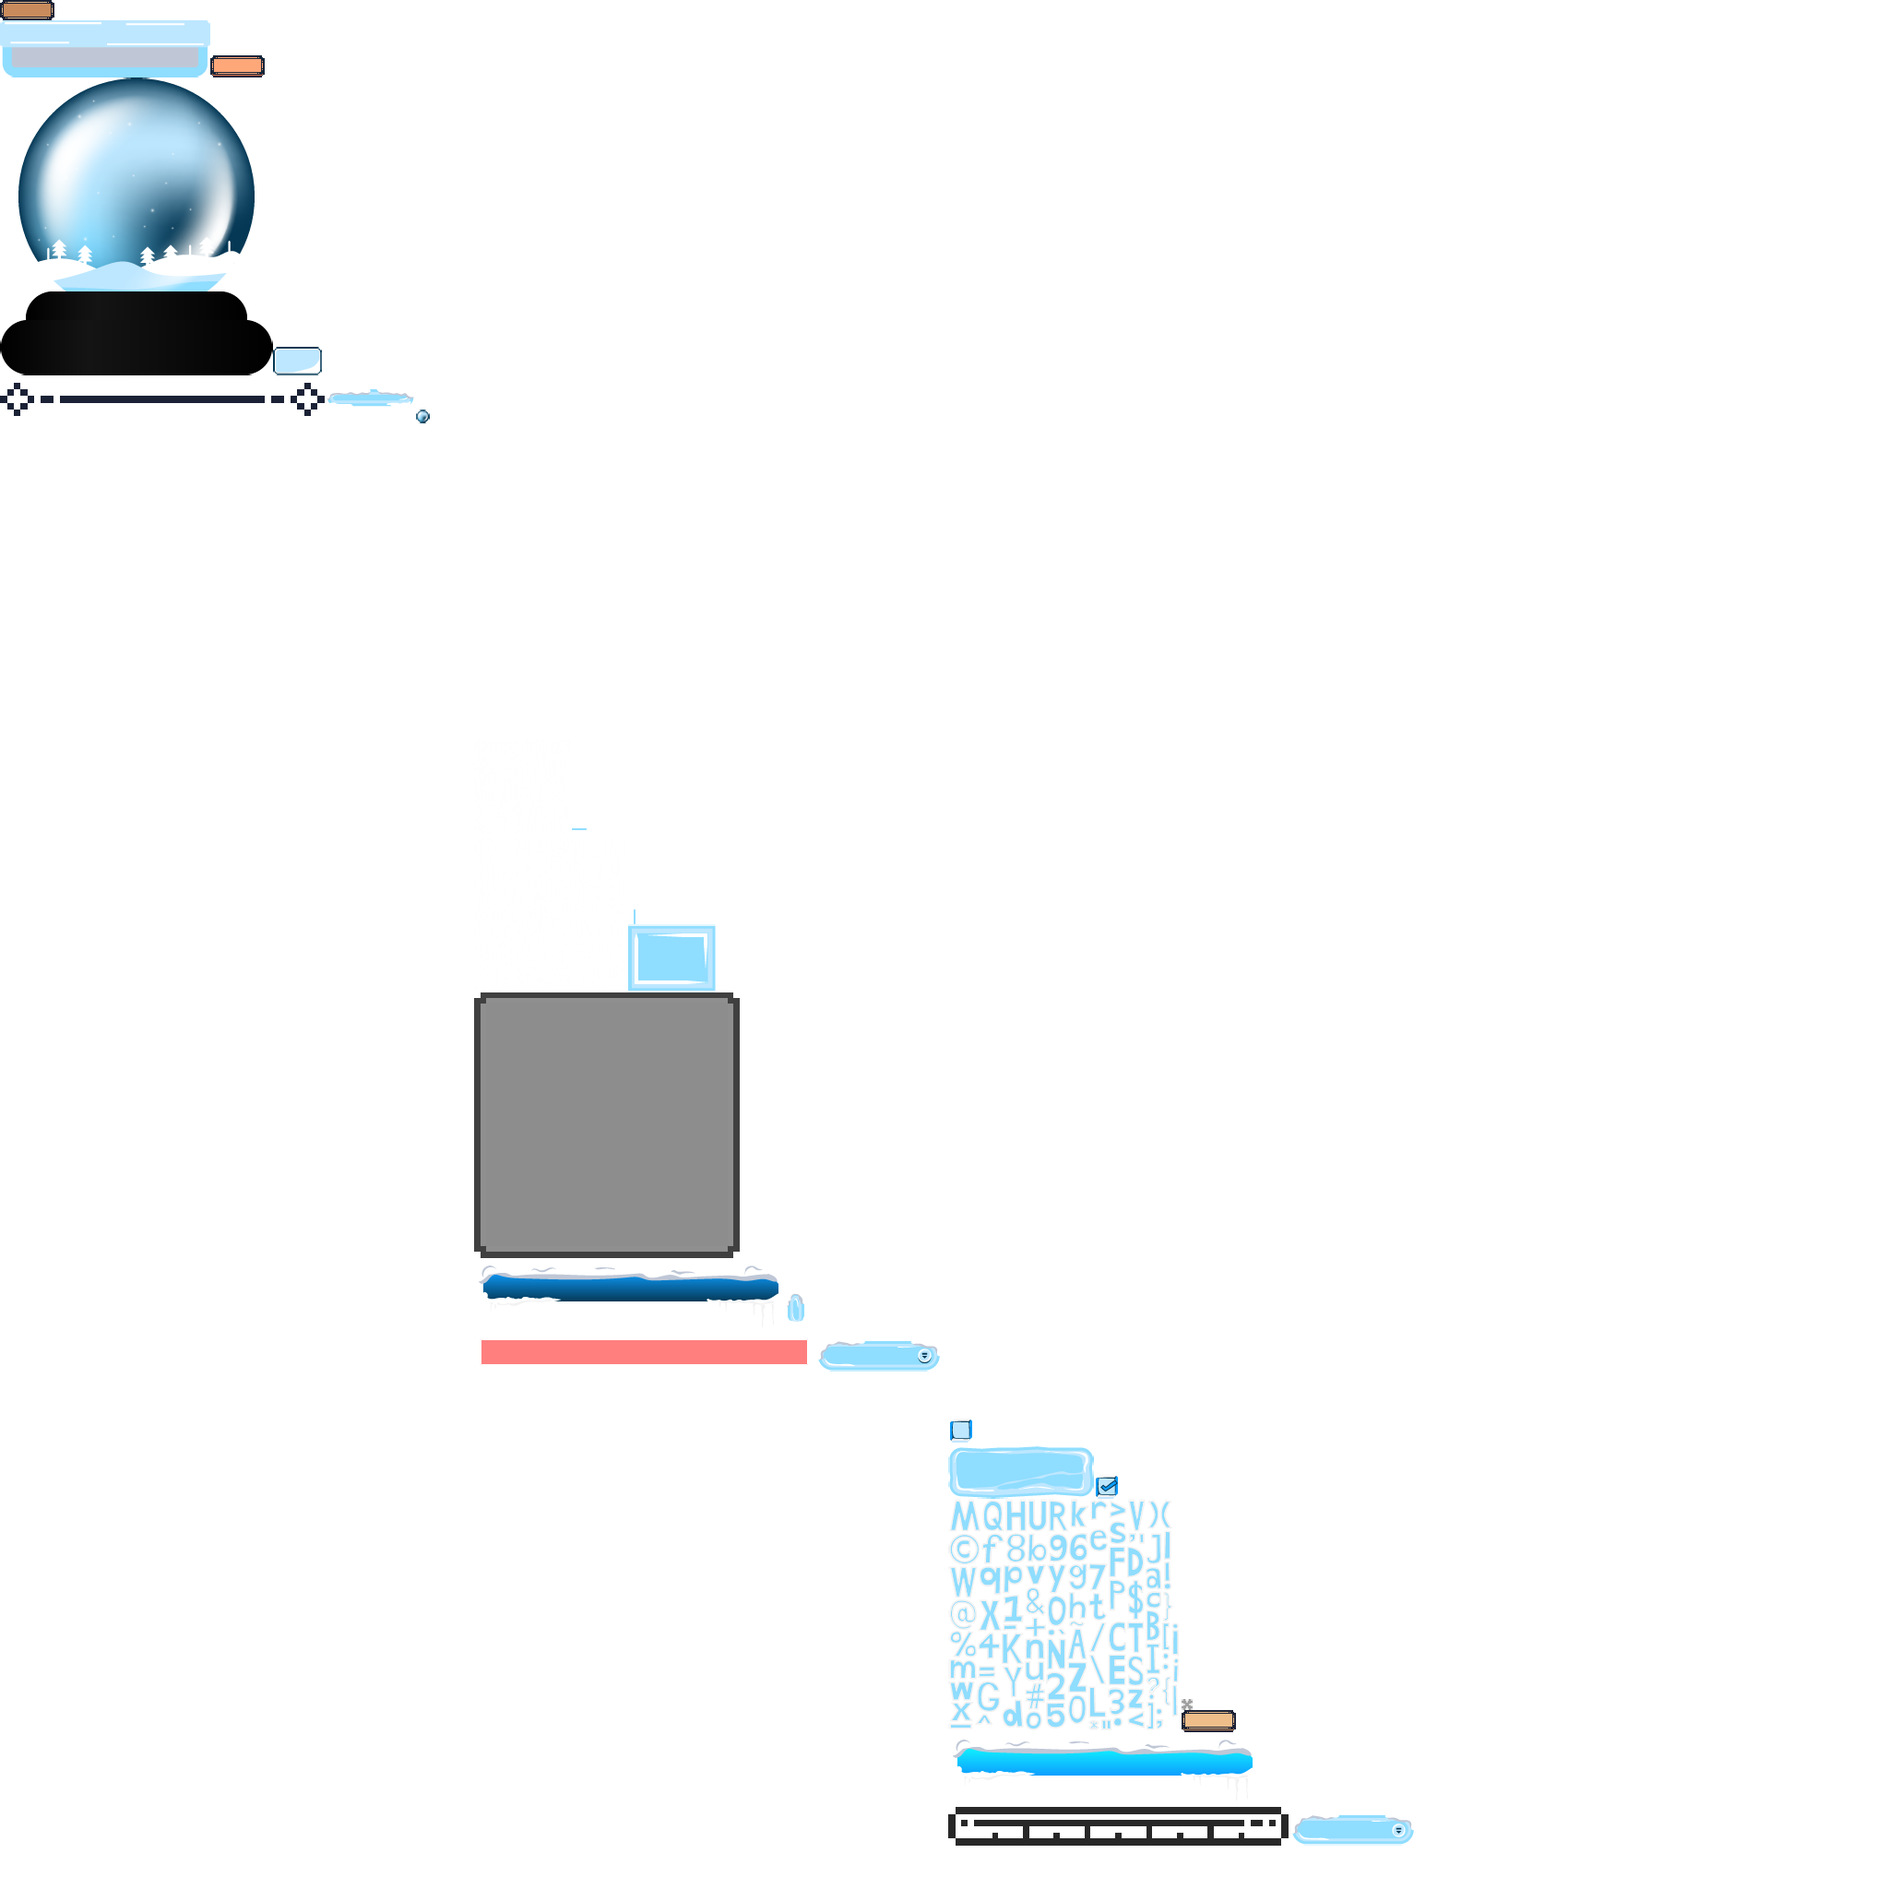
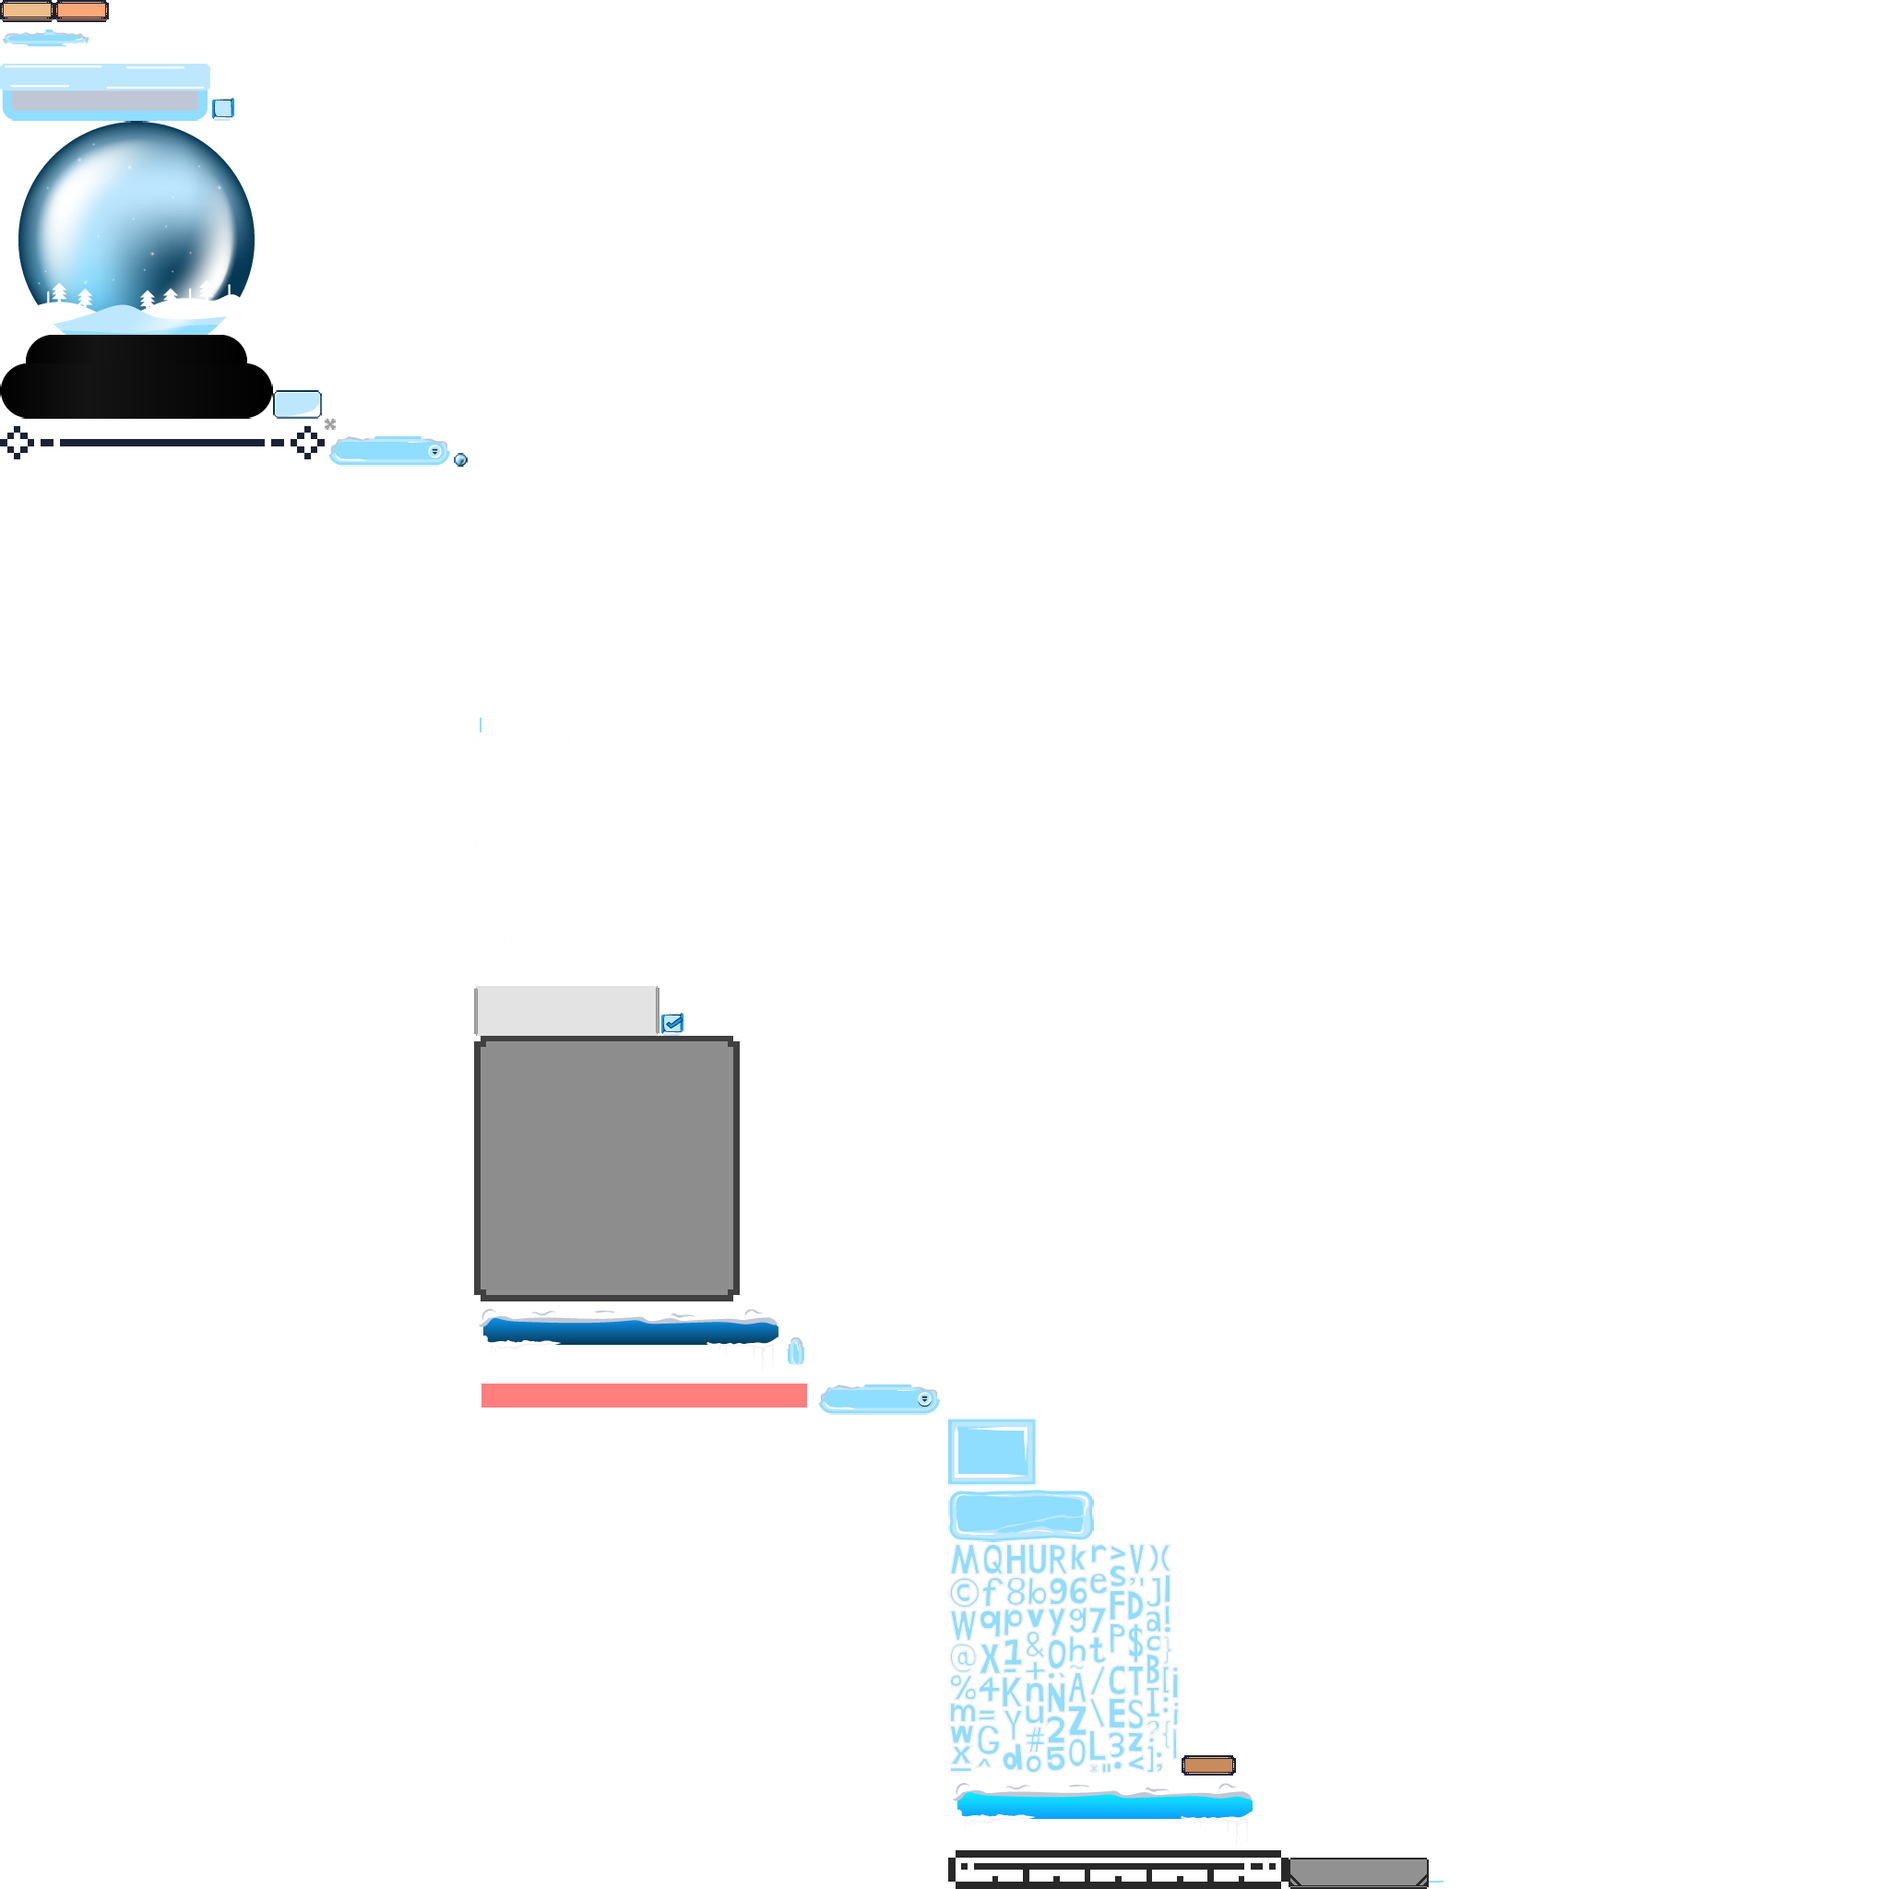
feat: finished the development of the character-creation menu

diff --git a/core/src/main/java/com/banew/containers/menu/character/creation/ConfirmationTable.java b/core/src/main/java/com/banew/containers/menu/character/creation/ConfirmationTable.java
@@ -1,22 +1,78 @@
 package com.banew.containers.menu.character.creation;
 
-import com.badlogic.gdx.scenes.scene2d.ui.Table;
-import com.badlogic.gdx.scenes.scene2d.ui.TextButton;
+import com.badlogic.gdx.graphics.Color;
+import com.badlogic.gdx.scenes.scene2d.Actor;
+import com.badlogic.gdx.scenes.scene2d.InputEvent;
+import com.badlogic.gdx.scenes.scene2d.InputListener;
+import com.badlogic.gdx.scenes.scene2d.ui.*;
+import com.badlogic.gdx.scenes.scene2d.utils.ChangeListener;
 import com.badlogic.gdx.scenes.scene2d.utils.TextureRegionDrawable;
 import com.banew.containers.GlobalGameContext;
+import com.banew.containers.game.GameContainer;
 import com.banew.containers.menu.AbstractTogglingTable;
 import com.banew.containers.menu.MenuContainer;
 
 public class ConfirmationTable extends AbstractTogglingTable {
     private final TextButton nextButton;
+    private final NewCharacterProperties properties;
 
     public ConfirmationTable(GlobalGameContext context, MenuContainer menuContainer) {
         super(context, menuContainer);
 
+        properties = menuContainer.getNewCharacterProperties();
+
         setBackground(
             new TextureRegionDrawable(context.getTextureAtlas().findRegion("gui/create_character_back"))
         );
-        center();
+        top();
+
+        Label topLabel = new Label("Створення персонажа: підтвердження", context.getMainSkin());
+        context.getDynamicLabelsContainer().put(topLabel, .4f);
+        add(topLabel).padBottom(Value.percentHeight(.1f, this));
+        row();
+
+        Table innerTable = new Table();
+        innerTable.setBackground(new TextureRegionDrawable(
+            context.getTextureAtlas().findRegion("gui/confirmation_back")
+        ));
+        innerTable.pad(Value.percentWidth(.05f, this));
+        add(innerTable);
+
+        Label nameLabel = new Label("Введіть внутрішньоігрове ім'я персонажа:", context.getMainSkin());
+        context.getDynamicLabelsContainer().put(nameLabel, .4f);
+        innerTable.add(nameLabel).top().right();
+
+        TextField textField = new TextField("ім'я", context.getMainSkin());
+        innerTable.add(textField)
+            .pad(Value.percentHeight(.01f, this))
+            .width(Value.percentWidth(.2f, this));
+        innerTable.row();
+        textField.addListener(new ChangeListener() {
+            @Override
+            public void changed(ChangeEvent event, Actor actor) {
+                properties.setName(textField.getText());
+                check();
+            }
+        });
+
+        Label bioLabel = new Label("Введіть внутрішньоігрову біографію персонажа:", context.getMainSkin());
+        context.getDynamicLabelsContainer().put(bioLabel, .4f);
+        innerTable.add(bioLabel).top().right()
+            .padTop(Value.percentHeight(.01f, this));;
+
+        TextArea bioField = new TextArea("біо", context.getMainSkin());
+        innerTable.add(bioField)
+            .size(
+                Value.percentWidth(.2f, this),
+                Value.percentWidth(.1f, this)
+            ).pad(Value.percentHeight(.01f, this));
+        bioField.addListener(new ChangeListener() {
+            @Override
+            public void changed(ChangeEvent event, Actor actor) {
+                properties.setBio(bioField.getText());
+                check();
+            }
+        });
 
         row();
         Table buttonsWrap = new Table();
@@ -24,13 +80,16 @@ public class ConfirmationTable extends AbstractTogglingTable {
             toggleOff(menuContainer.viewport());
             menuContainer.toggleSkills();
         });
-        nextButton = addButton(buttonsWrap, .15f, .075f, .4f, "Перейти далі", context, () -> {
-//            toggleOff(menuContainer.viewport());
-//            menuContainer.toggleConfirmation();
+        nextButton = addButton(buttonsWrap, .15f, .075f, .4f, "Почати гру!", context, () -> {
+            context.setContainer(new GameContainer(context, properties));
         }).getActor();
         nextButton.setVisible(false);
         add(buttonsWrap);
     }
 
-
+    private void check() {
+        if (properties.getName().length() >= 5 && properties.getBio().length() >= 10) {
+            nextButton.setVisible(true);
+        }
+    }
 }

diff --git a/core/src/main/java/com/banew/other/enums/Race.java b/core/src/main/java/com/banew/other/enums/Race.java
@@ -11,16 +11,16 @@ import java.util.Map;
 
 @Getter
 public enum Race implements SetupEnum {
-    ZAPADENEC("Западенець"),
-    VOLYNYAKA("Волиняка"),
-    POROHOBOT("Порохобот"),
-    JEW("Жид"),
-    KAVUN("Кавун"),
-    OFFICE_MAN("Робітник офісу"),
-    NIGER("Негр"),
-    LEFT_BANK_VILLAGER("Представник лівого берега Києва"),
-    COAL_MINER("Шахтар Доннбасса"),
-    HARKOVSKII("Харківець");
+    LV("Западенець"),
+    VL("Волиняка"),
+    PD("Порохобот"),
+    OD("Жид"),
+    KR("Кавун"),
+    DN("Робітник офісу"),
+    CH("Негр"),
+    KY("Представник лівого берега Києва"),
+    DC("Шахтар Доннбасса"),
+    HK("Харківець");
 
     private final String ukrName;
     @Setter
@@ -35,9 +35,11 @@ public enum Race implements SetupEnum {
     @Override
     public void setup(GlobalGameContext context) {
         InitialRace initialRace = context.getGeneralSettings().getRaces().get(name());
-        if (initialRace == null) return;
+        if (initialRace == null) throw new RuntimeException("Раса " + name() + " чогось не має налаштувань!");
+        if (initialRace.getSpritesheet() == null)
+            throw new RuntimeException("Раса " + name() + " чогось не має текстури!");
+
         desc = initialRace.getDesc();
-        if (initialRace.getSpritesheet() != null)
-            textures = initialRace.getSpritesheet().extractTextures(context.getTextureAtlas());
+        textures = initialRace.getSpritesheet().extractTextures(context.getTextureAtlas());
     }
 }

diff --git a/core/src/main/java/com/banew/containers/menu/character/creation/RaceSelectTable.java b/core/src/main/java/com/banew/containers/menu/character/creation/RaceSelectTable.java
@@ -66,16 +66,16 @@ public class RaceSelectTable extends AbstractTogglingTable {
                 float apr_y = (1 - (y / image.getHeight())) * maskPixmap.getHeight();
                 Color.rgba8888ToColor(color, maskPixmap.getPixel((int) apr_x, (int) apr_y));
                 Race race = switch (color.toString().toUpperCase()) {
-                    case "0026FFFF" -> Race.VOLYNYAKA;
-                    case "FF0000FF" -> Race.ZAPADENEC;
-                    case "FF006EFF" -> Race.POROHOBOT;
-                    case "4CFF00FF" -> Race.LEFT_BANK_VILLAGER;
-                    case "FFD800FF" -> Race.NIGER;
-                    case "B200FFFF" -> Race.HARKOVSKII;
-                    case "0094FFFF" -> Race.OFFICE_MAN;
-                    case "FF00DCFF" -> Race.COAL_MINER;
-                    case "00FFFFFF" -> Race.KAVUN;
-                    case "7F0037FF" -> Race.JEW;
+                    case "0026FFFF" -> Race.VL;
+                    case "FF0000FF" -> Race.LV;
+                    case "FF006EFF" -> Race.PD;
+                    case "4CFF00FF" -> Race.KY;
+                    case "FFD800FF" -> Race.CH;
+                    case "B200FFFF" -> Race.HK;
+                    case "0094FFFF" -> Race.DN;
+                    case "FF00DCFF" -> Race.DC;
+                    case "00FFFFFF" -> Race.KR;
+                    case "7F0037FF" -> Race.OD;
                     default -> null;
                 };
                 if (race != null) {

diff --git a/core/src/main/java/com/banew/containers/menu/character/creation/SkillSelectTable.java b/core/src/main/java/com/banew/containers/menu/character/creation/SkillSelectTable.java
@@ -76,7 +76,6 @@ public class SkillSelectTable extends AbstractTogglingTable {
             map.put(i, Skill.values()[i]);
             setUpDragAndDrop(button, i, context);
         }
-        reloadButtons(context.getTextureAtlas());
         // ------------------------------
 
         skillViewTable = new SkillViewTable(context);
@@ -100,6 +99,8 @@ public class SkillSelectTable extends AbstractTogglingTable {
         }).getActor();
         nextButton.setVisible(false);
         add(buttonsWrap).colspan(2);
+
+        reloadButtons(context.getTextureAtlas());
     }
 
     private void reloadButtons(TextureAtlas atlas) {
@@ -122,6 +123,9 @@ public class SkillSelectTable extends AbstractTogglingTable {
             p.setMajorSkills(majorSkills.getList());
             p.setMinorSkills(minorSkills.getList());
             p.setMainSkills(mainSkills.getList());
+        }
+        else {
+            nextButton.setVisible(false);
         }
     }
 

diff --git a/core/src/main/java/com/banew/containers/menu/FrontMainTable.java b/core/src/main/java/com/banew/containers/menu/FrontMainTable.java
@@ -4,7 +4,6 @@ import com.badlogic.gdx.Gdx;
 import com.badlogic.gdx.scenes.scene2d.ui.Table;
 import com.badlogic.gdx.scenes.scene2d.ui.Value;
 import com.banew.containers.GlobalGameContext;
-import com.banew.containers.game.GameContainer;
 
 public class FrontMainTable extends AbstractTogglingTable {
     public FrontMainTable(GlobalGameContext context, MenuContainer menuContainer) {
@@ -22,10 +21,6 @@ public class FrontMainTable extends AbstractTogglingTable {
         addButton("Почати гру", context, () -> {
             toggleOff(menuContainer.viewport());
             menuContainer.toggleRace();
-        });
-
-        addButton("Почати гру зразу", context, () -> {
-            context.setContainer(new GameContainer(context));
         });
 
         addButton("Налаштування", context, () -> {

diff --git a/core/src/main/java/com/banew/containers/game/GameContainer.java b/core/src/main/java/com/banew/containers/game/GameContainer.java
@@ -12,6 +12,7 @@ import com.badlogic.gdx.utils.viewport.Viewport;
 import com.banew.containers.Container;
 import com.banew.containers.GlobalGameContext;
 import com.banew.containers.game.gui.GuiContainer;
+import com.banew.containers.menu.character.creation.NewCharacterProperties;
 import com.banew.entities.alive.MainHeroEntity;
 import com.banew.external.GeneralSettings;
 import com.banew.factories.EntityFactory;
@@ -44,7 +45,7 @@ public class GameContainer implements Container {
         pixmap.dispose();
     }
 
-    public GameContainer(GlobalGameContext globalGameContext) {
+    public GameContainer(GlobalGameContext globalGameContext, NewCharacterProperties properties) {
         spriteBatch = new SpriteBatch();
         viewport = new FillViewport(8, 5);
 

diff --git a/core/src/main/java/com/banew/factories/EntityFactory.java b/core/src/main/java/com/banew/factories/EntityFactory.java
@@ -117,7 +117,7 @@ public class EntityFactory {
     public MainHeroEntity createMainHeroEntity(MapObject object) {
         Rectangle rectangle = GameLevel.fromMapObject(object);
 
-        Map<String, MovingEntityTexturesPerDirectionPack> textures = Race.JEW.getTextures();
+        Map<String, MovingEntityTexturesPerDirectionPack> textures = Race.OD.getTextures();
 
         MainHeroEntity mainHeroEntity = new MainHeroEntity(
             generateBasicSprite(rectangle, textures.get("down").waitingTexture()),

diff --git a/core/src/main/java/com/banew/containers/GlobalGameContext.java b/core/src/main/java/com/banew/containers/GlobalGameContext.java
@@ -49,7 +49,7 @@ public final class GlobalGameContext implements Disposable {
         setupEnum(Race.values());
         setupEnum(Skill.values());
 
-        Race.JEW.setInitialItem(
+        Race.OD.setInitialItem(
             new StupidItem(getTextureAtlas().findRegion("hryak1/tile000"), "Хряк")
         );
 

diff --git a/core/src/main/java/com/banew/containers/menu/character/creation/NewCharacterProperties.java b/core/src/main/java/com/banew/containers/menu/character/creation/NewCharacterProperties.java
@@ -12,4 +12,6 @@ public class NewCharacterProperties {
     private List<Skill> mainSkills;
     private List<Skill> majorSkills;
     private List<Skill> minorSkills;
+    private String name = "";
+    private String bio = "";
 }
